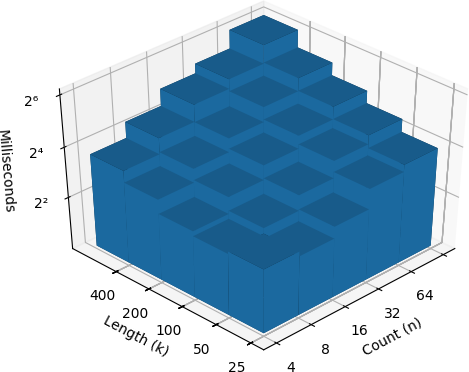
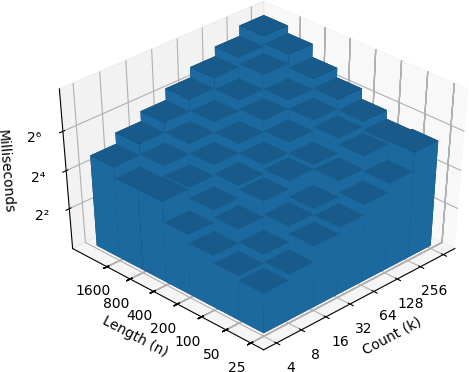
Updating tables and figures with updated runtime results

diff --git a/tex/Efficient-Implied-Alignment.tex b/tex/Efficient-Implied-Alignment.tex
@@ -795,31 +795,30 @@ Clearly, a $\oplus$ that is both commutative \emph{and} associative using the al
         \vspace{0.75em}\raggedright
         Expansion of the metrics presented in Table \ref{Tab:Metrics} is described by \cite{VaronandWheeler2012}.
     \end{table}
-    
-	\begin{table}[!htbp] \centering 
-		\caption{Regression coefficients of leaf-set size and string length on runtime} 
-		\label{Tab:Regression} 
 
-	\begin{tabular}{@{\extracolsep{5pt}}lD{.}{.}{-3} D{.}{.}{-3} D{.}{.}{-3} D{.}{.}{-3} } 
-			\\[-1.8ex]\hline 
-			\hline \\[-1.8ex] 
-			& \multicolumn{4}{c}{\textit{Dependent variable:}} \\ 
-			\cline{2-5} 
-			\\[-1.8ex] & \multicolumn{4}{c}{$\log_2$ (Runtime)} \\ 
-			& \multicolumn{1}{c}{Best} & \multicolumn{1}{c}{Worst} & \multicolumn{1}{c}{Fungi} & \multicolumn{1}{c}{Metazoa} \\ 
-			\\[-1.8ex] & \multicolumn{1}{c}{(1)} & \multicolumn{1}{c}{(2)} & \multicolumn{1}{c}{(3)} & \multicolumn{1}{c}{(4)}\\ 
-			\hline \\[-1.8ex] 
-			$\log_2$ (String count $\;n$) & 1.041 & 1.948 & 1.196 & 1.524 \\ 
-			& & & & \\ 
-			$\log_2$ (String length $k$) & 0.901 & 1.013 & 0.796 & 1.040 \\ 
-			& & & & \\ 
-			\hline \\[-1.8ex] 
-			Observations & \multicolumn{1}{c}{25} & \multicolumn{1}{c}{25} & \multicolumn{1}{c}{42} & \multicolumn{1}{c}{42} \\ 
-			Adjusted R$^{2}$ & \multicolumn{1}{c}{0.972} & \multicolumn{1}{c}{0.996} & \multicolumn{1}{c}{0.984} & \multicolumn{1}{c}{0.995} \\ 
-			\hline 
-			\hline \\[-1.8ex] 
-		\end{tabular} 
-	\end{table}
+    \begin{table}[!htbp] \centering 
+    	\caption{Regression coefficients of leaf-set size and string length on runtime} 
+    	\label{Tab:Regression}
+    	\begin{tabular}{@{\extracolsep{5pt}}lD{.}{.}{-3} D{.}{.}{-3} D{.}{.}{-3} D{.}{.}{-3} } 
+    		\\[-1.8ex]\hline 
+    		\hline \\[-1.8ex] 
+    		& \multicolumn{4}{c}{\textit{Dependent variable:}} \\ 
+    		\cline{2-5} 
+    		\\[-1.8ex] & \multicolumn{4}{c}{$\log_2$ (Runtime)} \\ 
+    		& \multicolumn{1}{c}{Best} & \multicolumn{1}{c}{Worst} & \multicolumn{1}{c}{Fungi} & \multicolumn{1}{c}{Metazoa} \\ 
+    		\\[-1.8ex] & \multicolumn{1}{c}{(1)} & \multicolumn{1}{c}{(2)} & \multicolumn{1}{c}{(3)} & \multicolumn{1}{c}{(4)}\\ 
+    		\hline \\[-1.8ex] 
+    		$\log_2$ (String count $\;n$) & 1.057 & 2.021 & 1.236 & 1.511 \\ 
+    		& & & & \\ 
+    		$\log_2$ (String length $k$) & 0.920 & 1.120 & 0.836 & 1.038 \\ 
+    		& & & & \\ 
+    		\hline \\[-1.8ex] 
+    		Observations & \multicolumn{1}{c}{49} & \multicolumn{1}{c}{49} & \multicolumn{1}{c}{42} & \multicolumn{1}{c}{42} \\ 
+    		Adjusted R$^{2}$ & \multicolumn{1}{c}{0.990} & \multicolumn{1}{c}{0.996} & \multicolumn{1}{c}{0.987} & \multicolumn{1}{c}{0.995} \\ 
+    		\hline 
+    		\hline \\[-1.8ex] 
+    	\end{tabular} 
+    \end{table}
 
 	\section*{Figures}
 	
